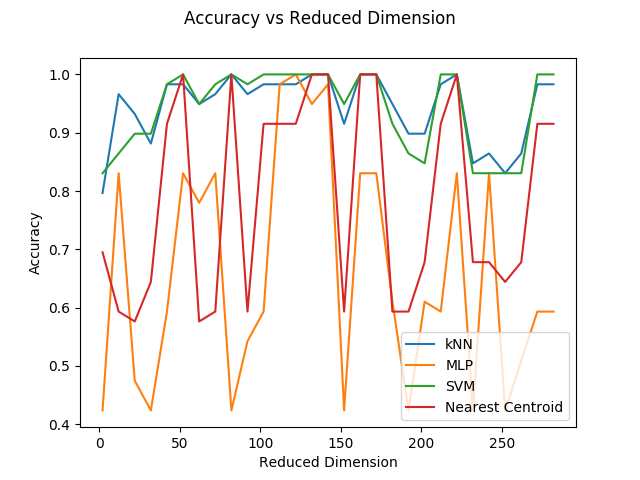
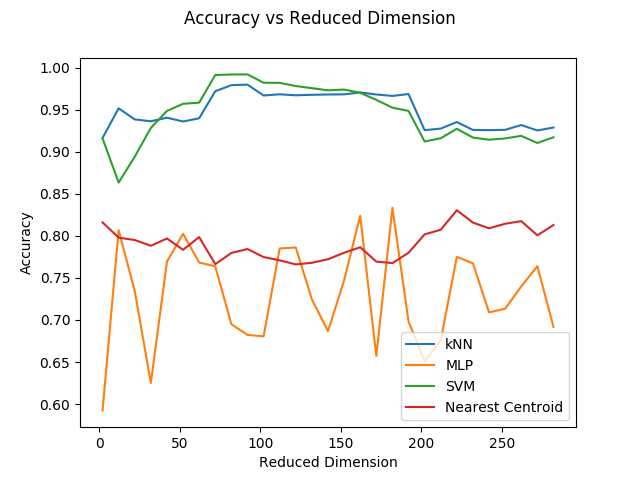
Updated

diff --git a/main.py b/main.py
@@ -46,19 +46,19 @@ def decomposed(factor,recovered,l):
     return np.reshape(decompose,(recovered.shape[0],l))
 
 # Boolean, as an switch to change the code between acc_vs_samples and acc_vs_reduced_dimension
-acc_vs_samples = False
+acc_vs_samples = True
 # Empty list to store the accuracies at each step
 acc_dict=[]
 # fixed to 122, here for MLP. l is the reduced_dimension variable
 l=122
 
 # loop over redced dimension or samples
-for l in range(2,283,10):
-#for samples in range (2,34):
+#for l in range(2,283,10):
+for samples in range (2,34):
     # Empty list declared to store accuraces, everytime the expriment is repeated
     acc=[]
     # Repeatation loop
-    for repeat in range(1):
+    for repeat in range(1,500):
         # Tucker is applied on tensor of each category to obtain core and factors
         core10,factor10 = tucker(recovered10, ranks = [recovered10.shape[0],1,l])
         core50,factor50 = tucker(recovered50, ranks =  [recovered50.shape[0],1,l])
